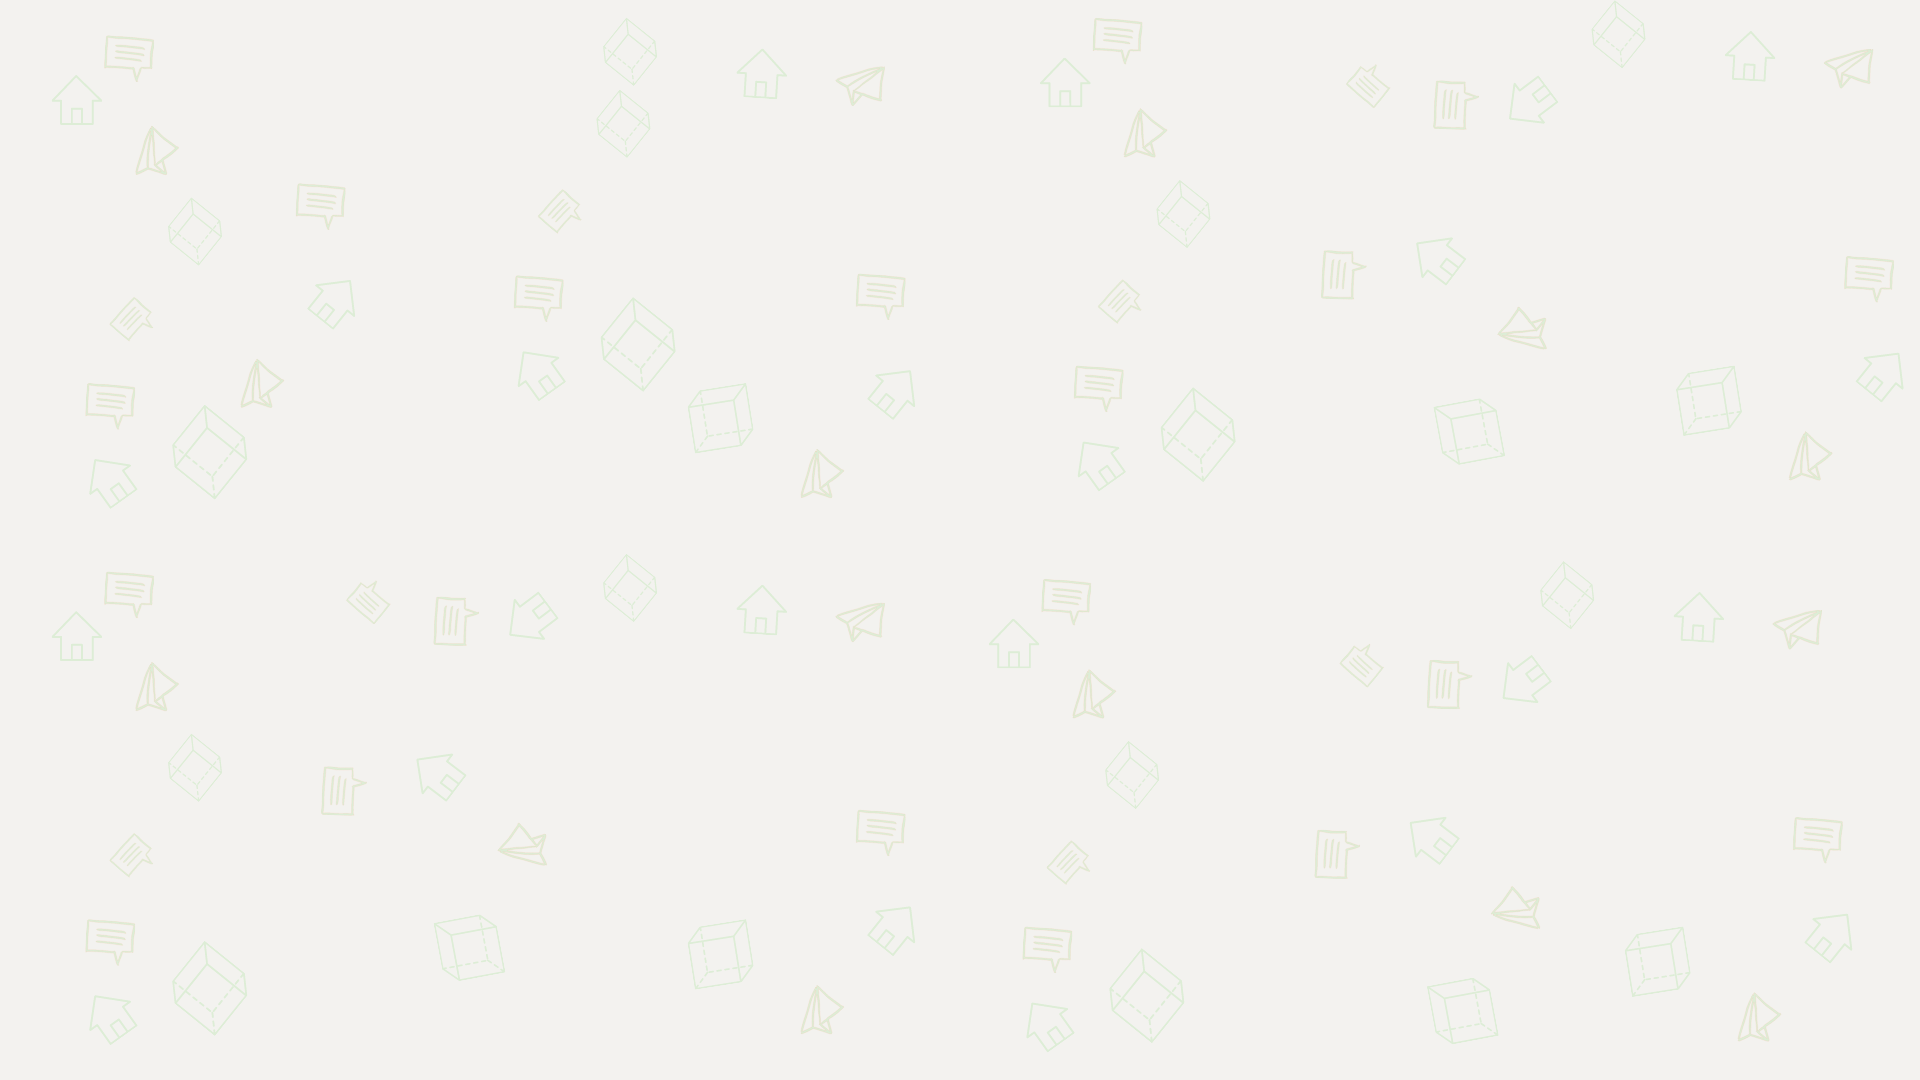
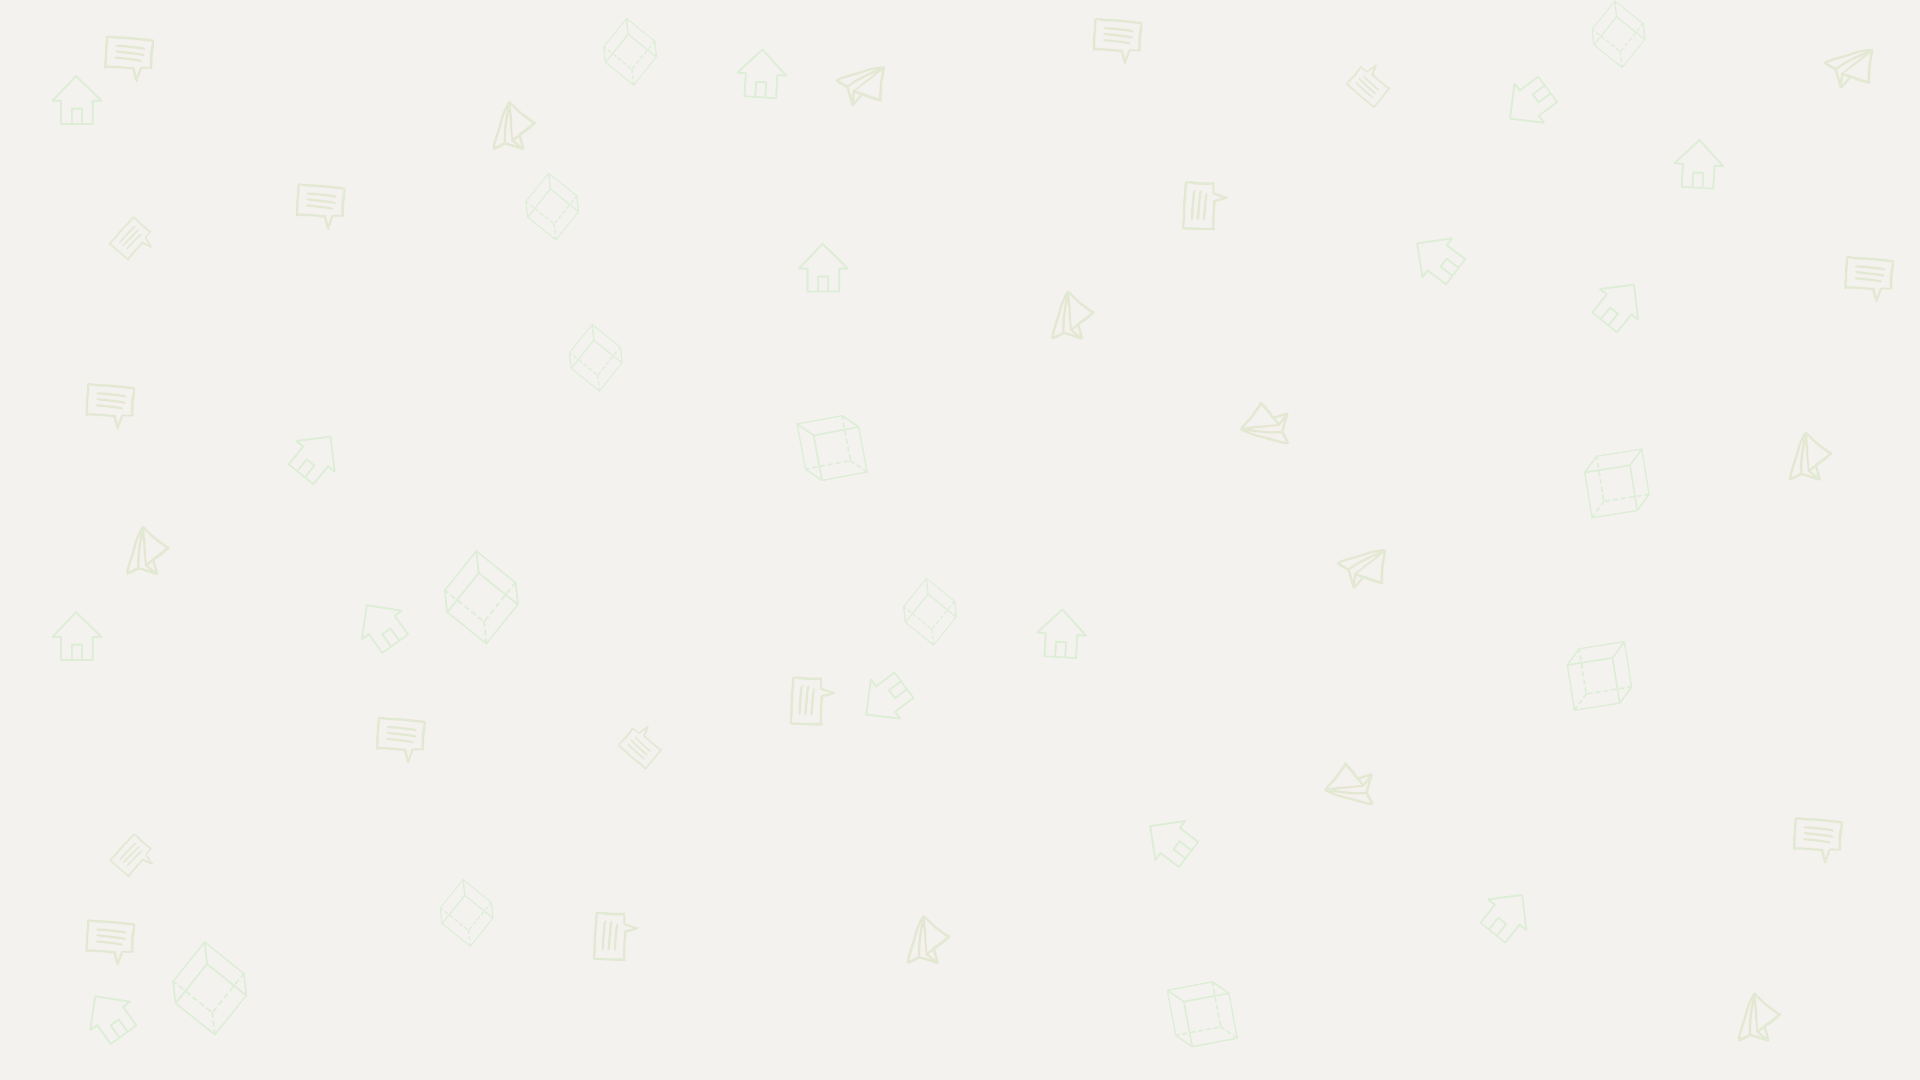
removed cors

diff --git a/src/App.css b/src/App.css
@@ -12,8 +12,8 @@ body,
   background-color: #F3F2EF !important;
   background-image: url(./assets/img/pattern.png) !important;
   /* background-position: center; */
-  background-size: 70%;
-  background-attachment: fixed;
+  background-size: 100%;
+  /* background-attachment: fixed; */
   background-repeat: repeat;
 }
 .bg-accent {
